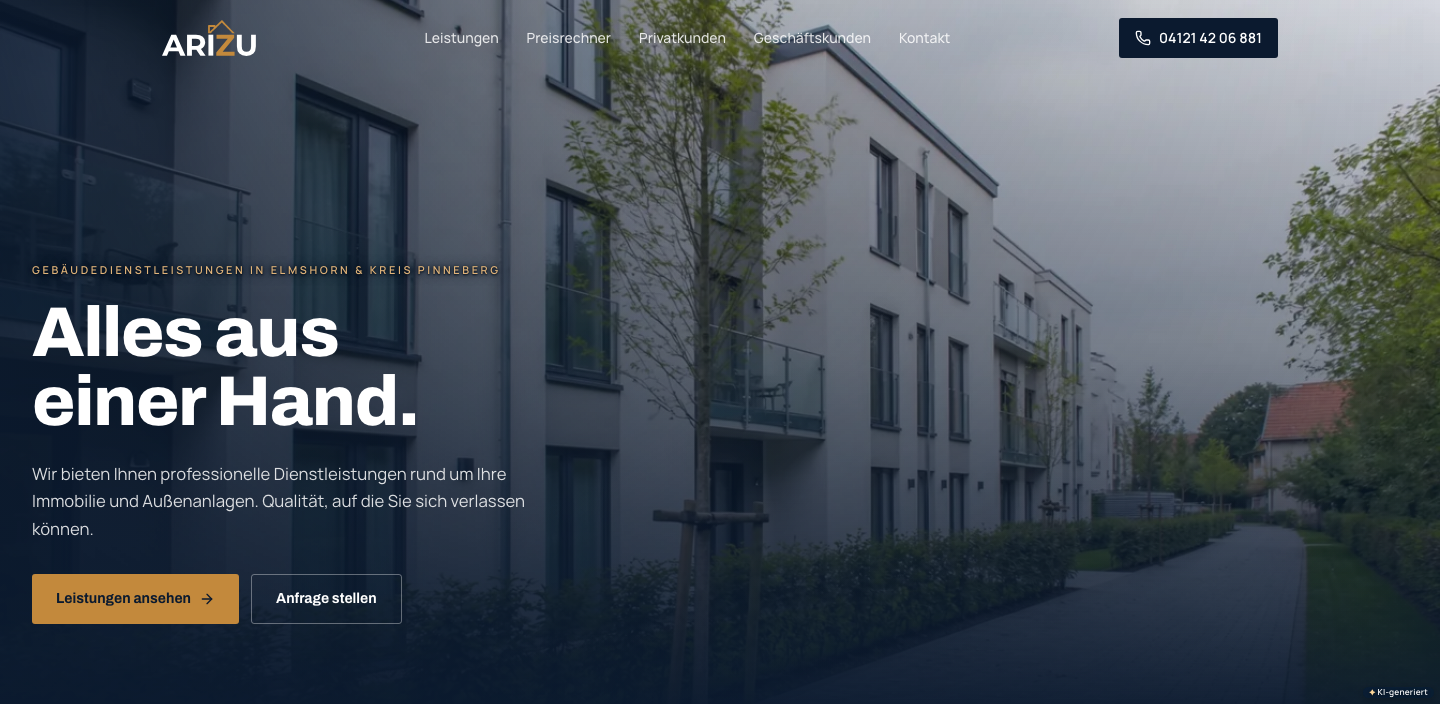
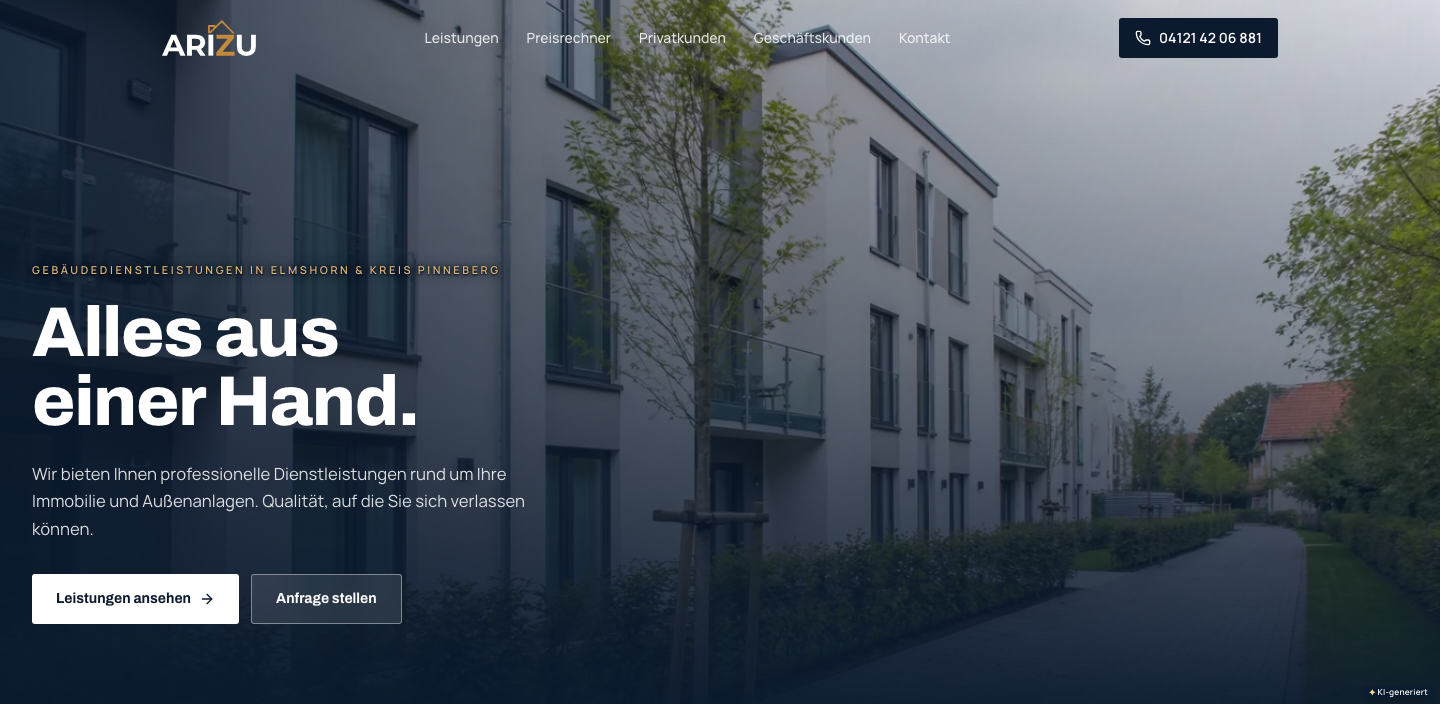
Seite heller: Navy und Weiß, Gold nur als Akzent, mehr Transparenz
Arians Wunsch vom 04.11.2026 mit makur.de als Richtung: heller, die
Gold-/Kupfer-Buttons wirken zu kräftig, lieber Navy mit Weiß und goldenem
Akzent und etwas Transparenz.

- Flächen kühl statt warm (#f4f6f9 / #e2e7ee statt #f5f3ef / #e8e5df)
- Keine gefüllten Gold-Buttons mehr: auf Fotos und der Preisanzeige
  weiß mit Navy-Schrift, Zweitbuttons durchscheinend mit Unschärfe, auf
  hellem Grund Navy
- Weiche Privat/Geschäft, Steuerband und Abschluss der Startseite hell
  statt Navy; Abschluss mit goldenem Strich als einzigem Akzent
- Header und Handy-Leiste leicht durchscheinend, die hervorgehobene
  Aktion der Leiste weiß statt gold
- Farbtest an die neue Kartenfarbe angepasst

Changed region(s): [[0.0, 0.8125, 0.2812, 0.9062]]

diff --git a/app/page.tsx b/app/page.tsx
@@ -172,14 +172,14 @@ export default function Home() {
             <div className="mt-8 flex flex-wrap gap-3">
               <a
                 href="#leistungen"
-                className="inline-flex items-center gap-2 rounded-sm bg-gold px-6 py-3.5 font-display text-sm font-bold text-navy transition-colors hover:bg-gold-soft"
+                className="inline-flex items-center gap-2 rounded-sm bg-white px-6 py-3.5 font-display text-sm font-bold text-navy transition-colors hover:bg-white/85"
               >
                 Leistungen ansehen
                 <ArrowRight className="size-4" aria-hidden />
               </a>
               <Link
                 href="/kontakt#anfrage"
-                className="inline-flex items-center gap-2 rounded-sm border border-white/35 px-6 py-3.5 font-display text-sm font-bold text-white transition-colors hover:border-gold"
+                className="inline-flex items-center gap-2 rounded-sm border border-white/40 bg-white/10 px-6 py-3.5 font-display text-sm font-bold text-white backdrop-blur-md transition-colors hover:border-white/80 hover:bg-white/20"
               >
                 Anfrage stellen
               </Link>
@@ -231,7 +231,7 @@ export default function Home() {
       <KundenartWeiche />
 
       {/* ------------------------------------------------------ Objektarten */}
-      <section className="bg-mist/40 py-20 sm:py-24">
+      <section className="py-20 sm:py-24">
         <Container>
           <SectionHeading
             eyebrow="Für Geschäftskunden"
@@ -314,14 +314,17 @@ export default function Home() {
       </section>
 
       {/* ------------------------------------------------------- Abschluss */}
-      <section className="bg-navy-band py-16 sm:py-20">
+      {/* Hell statt Navy-Band (Arians Wunsch vom 04.11.2026): Der Footer
+          darunter ist bereits Navy, zwei dunkle Flächen hintereinander
+          wirkten schwer. Der goldene Strich oben ist der einzige Akzent. */}
+      <section className="pb-20 sm:pb-24">
         <Container>
-          <div className="flex flex-col gap-8 lg:flex-row lg:items-center lg:justify-between">
+          <div className="flex flex-col gap-8 rounded-sm border border-mist border-t-2 border-t-gold bg-surface p-8 sm:p-12 lg:flex-row lg:items-center lg:justify-between">
             <div className="max-w-2xl">
-              <h2 className="font-display text-3xl text-white sm:text-4xl">
+              <h2 className="font-display text-3xl text-navy sm:text-4xl">
                 Sprechen Sie mit uns über Ihr Objekt
               </h2>
-              <p className="mt-3 text-[1.05rem] leading-relaxed text-white/75">
+              <p className="mt-3 text-[1.05rem] leading-relaxed text-ink-muted">
                 Die Besichtigung vor Ort ist kostenlos und unverbindlich. Wir
                 melden uns in der Regel noch am selben Werktag.
               </p>
@@ -329,7 +332,7 @@ export default function Home() {
             <div className="flex flex-wrap gap-3">
               <a
                 href={business.phone.href}
-                className="inline-flex items-center gap-2 rounded-sm bg-gold px-6 py-3.5 font-display text-sm font-bold text-navy transition-colors hover:bg-gold-soft"
+                className="inline-flex items-center gap-2 rounded-sm bg-navy px-6 py-3.5 font-display text-sm font-bold text-white transition-colors hover:bg-navy-band"
               >
                 <Phone className="size-4" aria-hidden />
                 {business.phone.display}
@@ -341,7 +344,7 @@ export default function Home() {
                   )}
                   target="_blank"
                   rel="noopener"
-                  className="inline-flex items-center gap-2 rounded-sm border border-white/35 px-6 py-3.5 font-display text-sm font-bold text-white transition-colors hover:border-gold"
+                  className="inline-flex items-center gap-2 rounded-sm border border-navy/20 bg-white px-6 py-3.5 font-display text-sm font-bold text-navy transition-colors hover:border-navy"
                 >
                   <MessageCircle className="size-4" aria-hidden />
                   WhatsApp
@@ -349,7 +352,7 @@ export default function Home() {
               )}
               <Link
                 href="/kontakt#anfrage"
-                className="inline-flex items-center gap-2 rounded-sm border border-white/35 px-6 py-3.5 font-display text-sm font-bold text-white transition-colors hover:border-gold"
+                className="inline-flex items-center gap-2 rounded-sm border border-navy/20 bg-white px-6 py-3.5 font-display text-sm font-bold text-navy transition-colors hover:border-navy"
               >
                 Anfrage stellen
                 <ArrowRight className="size-4" aria-hidden />

diff --git a/components/site/kundenart-weiche.tsx b/components/site/kundenart-weiche.tsx
@@ -63,17 +63,18 @@ export function KundenartWeiche() {
   return (
     <section
       aria-labelledby="kundenart-titel"
-      // Dunkles Band zwischen Leistungen und Objektarten: Hier fällt die
-      // Entscheidung, wohin es weitergeht.
-      className="bg-navy-band py-16 sm:py-20"
+      // Abgesetzte helle Fläche zwischen Leistungen und Objektarten: Hier
+      // fällt die Entscheidung, wohin es weitergeht. Bis 04.11.2026 ein
+      // Navy-Band; Arian wünschte die Seite heller.
+      className="border-y border-mist bg-surface py-16 sm:py-20"
     >
       <Container>
-        <p className="font-sans text-[0.68rem] font-semibold uppercase tracking-[0.24em] text-gold-soft">
+        <p className="font-sans text-[0.68rem] font-semibold uppercase tracking-[0.24em] text-gold-deep">
           Für wen arbeiten wir?
         </p>
         <h2
           id="kundenart-titel"
-          className="mt-3 font-display text-3xl text-white sm:text-4xl"
+          className="mt-3 font-display text-3xl text-navy sm:text-4xl"
         >
           Privat oder Unternehmen: Wählen Sie Ihren Bereich
         </h2>
@@ -81,14 +82,14 @@ export function KundenartWeiche() {
           {wege.map((w) => (
             <li
               key={w.id}
-              className="flex flex-col rounded-sm border border-white/15 bg-white/5 p-7"
+              className="flex flex-col rounded-sm border border-mist bg-shell p-7"
             >
               <w.icon className="size-7 text-gold" strokeWidth={1.5} aria-hidden />
-              <h3 className="mt-4 font-display text-xl text-white">{w.titel}</h3>
-              <p className="mt-2 text-sm leading-relaxed text-white/70">{w.text}</p>
+              <h3 className="mt-4 font-display text-xl text-navy">{w.titel}</h3>
+              <p className="mt-2 text-sm leading-relaxed text-ink-muted">{w.text}</p>
               <ul className="mt-5 space-y-2.5">
                 {w.punkte.map((punkt) => (
-                  <li key={punkt} className="flex gap-3 text-[0.95rem] text-white/90">
+                  <li key={punkt} className="flex gap-3 text-[0.95rem] text-navy">
                     <Check className="mt-0.5 size-4 shrink-0 text-gold" aria-hidden />
                     <span>{punkt}</span>
                   </li>
@@ -99,7 +100,7 @@ export function KundenartWeiche() {
               <form action={actionFuer(w.id)} className="mt-auto pt-7">
                 <button
                   type="submit"
-                  className="group inline-flex items-center gap-2 rounded-sm bg-gold px-6 py-3.5 font-display text-sm font-bold text-navy transition-colors hover:bg-gold-soft"
+                  className="group inline-flex items-center gap-2 rounded-sm bg-navy px-6 py-3.5 font-display text-sm font-bold text-white transition-colors hover:bg-navy-band"
                 >
                   {w.cta}
                   <ArrowRight

diff --git a/app/privatkunden/page.tsx b/app/privatkunden/page.tsx
@@ -91,7 +91,7 @@ export default async function PrivatkundenPage() {
 
           <a
             href="#richtpreis"
-            className="mt-9 inline-flex items-center gap-2 rounded-sm bg-gold px-6 py-3.5 font-display text-sm font-bold text-navy transition-colors hover:bg-gold-soft"
+            className="mt-9 inline-flex items-center gap-2 rounded-sm bg-white px-6 py-3.5 font-display text-sm font-bold text-navy transition-colors hover:bg-white/85"
           >
             Preisschätzung ansehen
             <ArrowRight className="size-4" aria-hidden />
@@ -99,7 +99,8 @@ export default async function PrivatkundenPage() {
         </Container>
       </section>
 
-      <section className="bg-navy py-16 text-white">
+      {/* Hell statt Navy seit Arians Wunsch vom 04.11.2026. */}
+      <section className="border-y border-mist bg-surface py-16">
         <Container>
           <div className="flex flex-col gap-8 lg:flex-row lg:items-center lg:gap-14">
             <BadgeEuro
@@ -108,10 +109,10 @@ export default async function PrivatkundenPage() {
               aria-hidden
             />
             <div className="max-w-3xl">
-              <h2 className="font-display text-2xl text-white sm:text-3xl">
+              <h2 className="font-display text-2xl text-navy sm:text-3xl">
                 20 % der Arbeitskosten holen Sie vom Finanzamt zurück
               </h2>
-              <p className="mt-4 text-[1.02rem] leading-relaxed text-white/75">
+              <p className="mt-4 text-[1.02rem] leading-relaxed text-ink-muted">
                 Reinigung, Grün- und Außenanlagenpflege sowie Hausmeisterleistungen
                 im Privathaushalt gelten als haushaltsnahe Dienstleistungen. Sie können
                 20 % der Arbeitskosten von der Steuer absetzen, bis zu 4.000 € im

diff --git a/components/site/sticky-call-bar.tsx b/components/site/sticky-call-bar.tsx
@@ -28,7 +28,8 @@ import { cn } from "@/lib/utils";
  * - Geschäftskunden: „Bedarf schildern“ — dort gibt es bewusst keinen
  *   öffentlichen Preis (Kundengespräch 14.08.2026)
  * - Hausmeisterservice: „Anfragen“, die Leistung hat keinen Rechner
- * Sie steht rechts, im Daumenbereich der meisten Nutzer.
+ * Sie steht rechts, im Daumenbereich der meisten Nutzer, weiß auf Navy —
+ * hervorgehoben ohne Goldfläche (Arians Wunsch vom 04.11.2026).
  *
  * Solange ein Eingabefeld den Fokus hat, verschwindet die Leiste: Auf dem
  * Handy schiebt die Tastatur sie sonst über das Feld, in das man gerade
@@ -89,7 +90,7 @@ export function StickyCallBar({ rechnerSlugs }: { rechnerSlugs: string[] }) {
       aria-label="Schnellkontakt"
       data-sticky-bar
       className={cn(
-        "fixed inset-x-0 bottom-0 z-40 border-t border-navy-deep/40 bg-navy/97 pb-[env(safe-area-inset-bottom)] backdrop-blur transition-transform duration-200 lg:hidden",
+        "fixed inset-x-0 bottom-0 z-40 border-t border-white/10 bg-navy/85 pb-[env(safe-area-inset-bottom)] backdrop-blur-md transition-transform duration-200 lg:hidden",
         tippt && "translate-y-full",
       )}
     >
@@ -109,7 +110,7 @@ export function StickyCallBar({ rechnerSlugs }: { rechnerSlugs: string[] }) {
           <MessageCircle className="size-5 text-gold" aria-hidden />
           WhatsApp
         </a>
-        <a href={aktion.href} className={cn(zelle, "bg-gold text-navy")}>
+        <a href={aktion.href} className={cn(zelle, "bg-white text-navy")}>
           <aktion.icon className="size-5" aria-hidden />
           {aktion.label}
         </a>

diff --git a/app/geschaeftskunden/page.tsx b/app/geschaeftskunden/page.tsx
@@ -151,14 +151,14 @@ export default function GeschaeftskundenPage() {
           <div className="mt-9 flex flex-wrap gap-4">
             <a
               href="#bedarf"
-              className="inline-flex items-center gap-2 rounded-sm bg-gold px-6 py-3.5 font-display text-sm font-bold text-navy transition-colors hover:bg-gold-soft"
+              className="inline-flex items-center gap-2 rounded-sm bg-white px-6 py-3.5 font-display text-sm font-bold text-navy transition-colors hover:bg-white/85"
             >
               Bedarf schildern
               <ArrowRight className="size-4" aria-hidden />
             </a>
             <a
               href={business.phone.href}
-              className="inline-flex items-center gap-2 rounded-sm border border-white/35 px-6 py-3.5 font-display text-sm font-bold text-white transition-colors hover:border-gold"
+              className="inline-flex items-center gap-2 rounded-sm border border-white/40 bg-white/10 px-6 py-3.5 font-display text-sm font-bold text-white backdrop-blur-md transition-colors hover:border-white/80 hover:bg-white/20"
             >
               {business.phone.display}
             </a>

diff --git a/qa-tests/geschaeftskunden.spec.ts b/qa-tests/geschaeftskunden.spec.ts
@@ -103,7 +103,9 @@ test("Privatkunden nutzen den zentralen Kontaktweg statt eines zweiten Formulars
   await expect(kontakt).toHaveAttribute("href", "/kontakt");
 });
 
-test("weiße Grundfläche und warme Karten bilden die vereinbarte Farbrolle", async ({
+/* Weiß außen seit 19.08.2026, kühle Karten seit Arians Wunsch vom
+   04.11.2026 (heller, Navy und Weiß, Gold nur als Akzent). */
+test("weiße Grundfläche und kühle helle Karten bilden die vereinbarte Farbrolle", async ({
   page,
 }) => {
   await page.goto("/privatkunden");
@@ -111,7 +113,7 @@ test("weiße Grundfläche und warme Karten bilden die vereinbarte Farbrolle", as
   await expect(page.locator("body")).toHaveCSS("background-color", "rgb(255, 255, 255)");
   await expect(
     page.locator('a[href="/leistungen/gebaeudereinigung"]').first(),
-  ).toHaveCSS("background-color", "rgb(245, 243, 239)");
+  ).toHaveCSS("background-color", "rgb(244, 246, 249)");
 });
 
 test("genau drei Live-Rechner zeigen Preisrahmen, Hinweise und Anfrage-CTA", async ({

diff --git a/app/globals.css b/app/globals.css
@@ -24,11 +24,15 @@
      und erreicht 4,6–5,7:1 auf allen hellen Flächen. */
   --color-gold-deep: #875e27;
 
-  /* Flächen — nach Arians Review vom 19.08.2026 liegt Weiß außen, der
-     bisherige warme Ton hebt Karten und abgegrenzte Inhalte davon ab. */
+  /* Flächen — Weiß liegt außen (Arians Review vom 19.08.2026). Seit seinem
+     Wunsch vom 04.11.2026 („heller, Navy mit Weiß und goldenem Akzent“) sind
+     Karten und abgesetzte Bereiche kühl statt warm: ein sehr helles Grau mit
+     Navy-Stich, damit Navy und Weiß den Ton angeben und Gold nur Akzent
+     bleibt. Gefüllte Gold-Buttons gibt es seitdem nicht mehr; auf Fotos und
+     dunklen Flächen stehen weiße bzw. durchscheinende Buttons. */
   --color-shell: #ffffff;
-  --color-mist: #e8e5df;
-  --color-surface: #f5f3ef;
+  --color-mist: #e2e7ee;
+  --color-surface: #f4f6f9;
 
   /* Text */
   --color-ink: #0b1a2f;

diff --git a/components/site/konfigurator.tsx b/components/site/konfigurator.tsx
@@ -354,7 +354,7 @@ export function Konfigurator({
           <button
             type="button"
             onClick={() => setSchritt("angaben")}
-            className="inline-flex w-full items-center justify-center gap-2 rounded-sm bg-gold px-6 py-3.5 font-display text-sm font-bold text-navy transition-colors hover:bg-gold-soft"
+            className="inline-flex w-full items-center justify-center gap-2 rounded-sm bg-white px-6 py-3.5 font-display text-sm font-bold text-navy transition-colors hover:bg-white/85"
           >
             Unverbindliche Anfrage stellen
             <ArrowRight className="size-4" aria-hidden />

diff --git a/components/site/site-header.tsx b/components/site/site-header.tsx
@@ -51,7 +51,9 @@ export function SiteHeader() {
       className={cn(
         "sticky top-0 z-50 transition-colors duration-300",
         solid || open
-          ? "bg-shell/95 backdrop-blur border-b border-mist"
+          // Leicht durchscheinend (Arians Wunsch nach Transparenz, 04.11.2026);
+          // die starke Unschärfe hält die Navigation trotzdem lesbar.
+          ? "bg-shell/80 backdrop-blur-md border-b border-mist"
           : "bg-transparent",
       )}
     >
